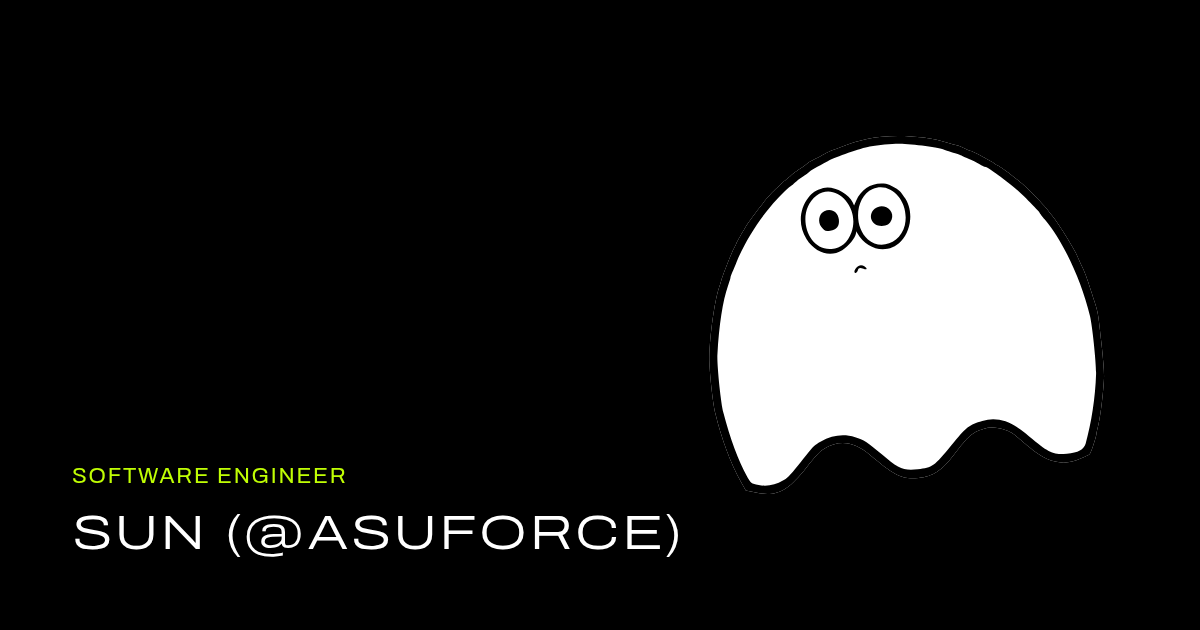
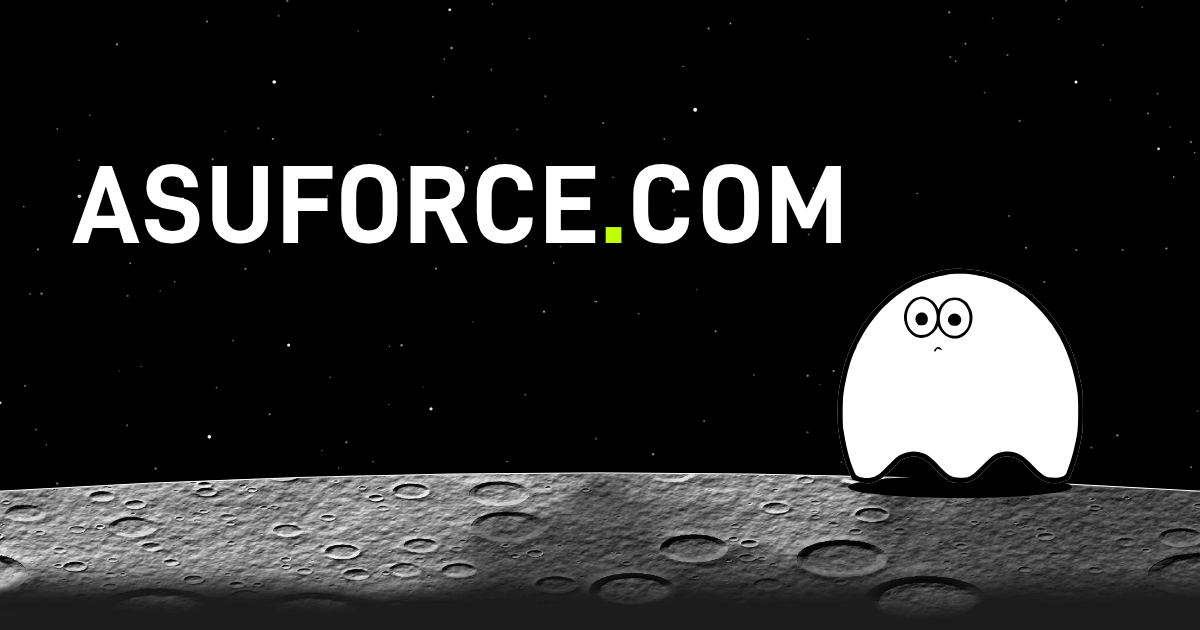
Redraw OG image to match the site

diff --git a/index.html b/index.html
@@ -18,7 +18,7 @@
   <meta property="og:image" content="https://asuforce.com/img/og.png" />
   <meta property="og:image:width" content="1200" />
   <meta property="og:image:height" content="630" />
-  <meta property="og:image:alt" content="Sun (@asuforce), Software Engineer, with a white ghost on a black background" />
+  <meta property="og:image:alt" content="Asuforce.com, with a white ghost standing on the moon under a starry sky" />
 
   <!-- Twitter -->
   <meta property="twitter:card" content="summary_large_image" />
@@ -26,7 +26,7 @@
   <meta property="twitter:title" content="Asuforce.com" />
   <meta property="twitter:description" content="Shun Nishitsuji (@asuforce) - Software Engineer" />
   <meta property="twitter:image" content="https://asuforce.com/img/og.png" />
-  <meta property="twitter:image:alt" content="Sun (@asuforce), Software Engineer, with a white ghost on a black background" />
+  <meta property="twitter:image:alt" content="Asuforce.com, with a white ghost standing on the moon under a starry sky" />
 
   <script>
     (function () {

diff --git a/DESIGN.md b/DESIGN.md
@@ -75,6 +75,10 @@ D-DIN は Datto Inc. 製で、SIL Open Font License 1.1 (予約フォント名 "
 
 着地: ページの最下部に着いたとき、ゴーストが水平線に着地する。着地したゴーストは不透明な白で月面の前に出し、足を地面に 16px めり込ませる。足元に黒い影の楕円を、着地の瞬間 (落下の 1.2 秒後) に現す。ゴーストがいないときは出さない。着地の瞬間に体を潰して戻し (700ms)、地面に輪 (月面の線の色) を広げる (1000ms)。落下は 1.2 秒の加速で、動きを減らす設定では止める。月面の手前の余白は、着地したゴーストの高さ + 32px に連動させ、Contact のリンク行に重ならないようにする。
 
+## 共有カード
+
+`public/img/og.png` (1200x630、`og:image` と `twitter:image`)。ダークの世界をそのまま切り出す。黒の地に星 (サイトと同じ固定の乱数)、左に `ASUFORCE.COM` だけを D-DIN 112px、大文字で置き、ドメインのドットだけアクセント、下に月面 (`moon.jpg` を円弧で切り抜き、上端に 1px の白い線)、右の水平線にゴーストが着地して影を落とす。文字はこの 1 つだけで、ラベルや装飾は置かない。ライトは作らない (クローラーはテーマを選べない)。ヘッドレスの Chromium で HTML を 1200x630 に撮影して作る。HTML の原稿はリポジトリに残していない。作り直すときは、この記述と `public/fonts/d-din/`、`public/img/moon.jpg`、`index.html` のゴーストのパスから組む。
+
 ## ゴースト (追従する要素)
 
 既存の線画 (`public/img/obake.jpg`、GitHub アバターと同じ絵) をベクター化したもの。元の配色のまま使い、反転や着色はしない (体は `#ffffff`、線と瞳は `#000000`。ライトでも同じ)。
